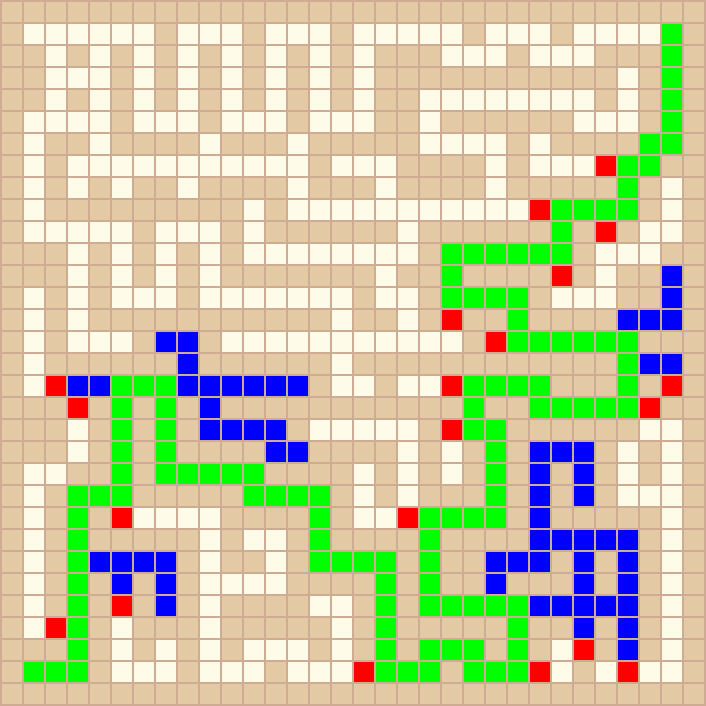
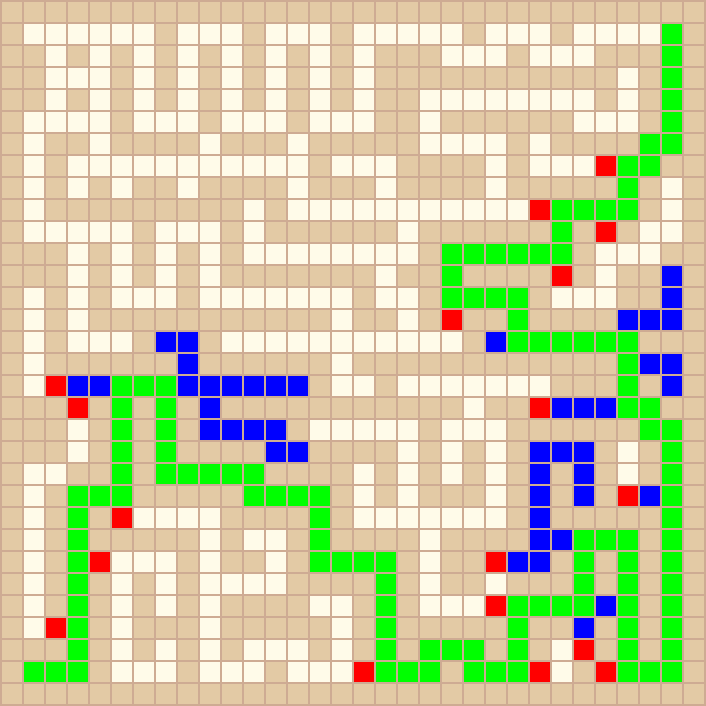
GBFS: Change heuristic from Euclidian to Mahhattan distance

diff --git a/EDAP01-LabAssignmentSearch-1/EDAP01-LabAssignmentSearch/searchalgorithms/gbfs.py b/EDAP01-LabAssignmentSearch-1/EDAP01-LabAssignmentSearch/searchalgorithms/gbfs.py
@@ -13,8 +13,10 @@ class gbfs(SearchAlgorithmBase):
     
     def heuristic(self, node):
         # Euclidean distance heuristic from node n to goal
-        return np.sqrt((node[0] - self._goal[0])**2 + (node[1] - self._goal[1])**2)
+        #return np.sqrt((node[0] - self._goal[0])**2 + (node[1] - self._goal[1])**2)
 
+        # Manhattan distance heuristic from node n to goal
+        return abs(node[0] - self._goal[0]) + abs(node[1] - self._goal[1])
 
     def step(self):
         """
